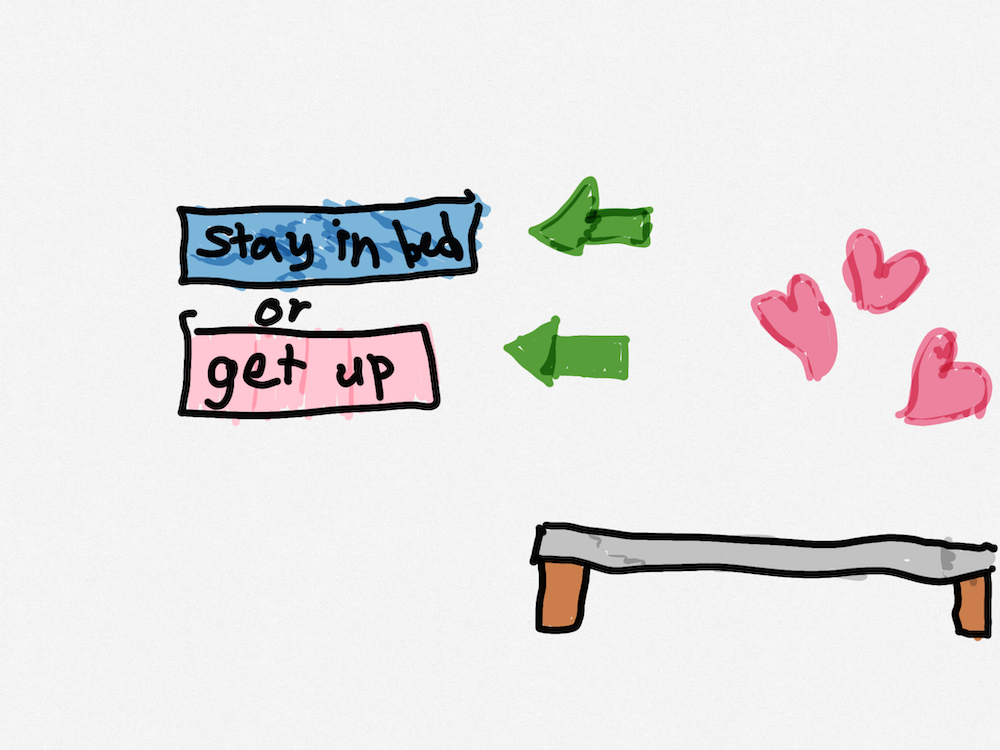
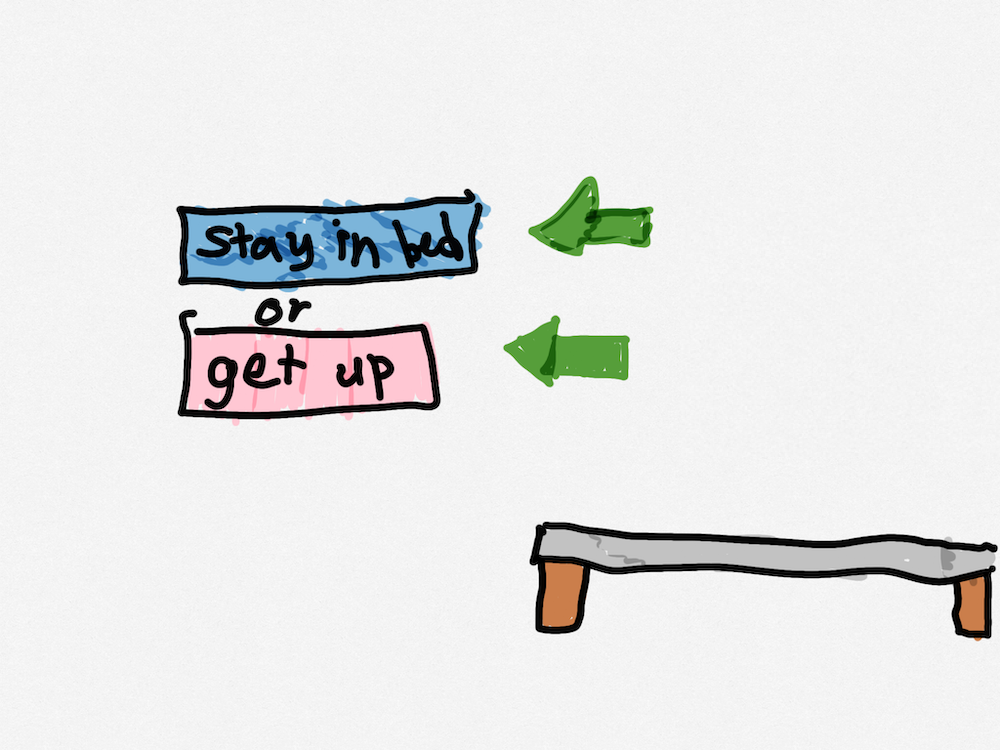
refactored physics

Changed region(s): [[0.744, 0.3067, 0.93, 0.5213], [0.899, 0.4293, 0.992, 0.5827]]

diff --git a/js/chooseAPlayer.js b/js/chooseAPlayer.js
@@ -1,5 +1,7 @@
 import {InputHandler} from "./input.js";
 import {WakeUp} from "./wakeUp.js";
+import {Gravity} from "./gravity.js";
+
 export class ChooseAPlayer {
 
   character_width = 250
@@ -50,11 +52,7 @@ class player {
     this.x = x;
     this.y = y;
 
-    this.v0 = 20;
-    this.g = -3;
-    this.tick = 0.3
-    this.d = 0;
-    this.time = Math.random() * -1
+    this.gravity = new Gravity(Math.random() * -1, 20, 0.3)
 
     this.input = new InputHandler(this.parent.game.canvas, pos => {
       if (!this.parent.isVisible) {
@@ -62,30 +60,21 @@ class player {
       }
 
       if (pos.x > this.x && pos.x < this.x + this.image.width
-      && pos.y > this.y - this.d && pos.y < this.y - this.d + this.image.height) {
+      && pos.y > this.y - this.gravity.d && pos.y < this.y - this.gravity.d + this.image.height) {
         this.onMouseDownInside()
       }
     })
   }
 
   update() {
-    if (this.time < 0) {
-      this.time = this.time + this.tick/3
-      return
-    }
-
-    if (this.d <= 0) {
-      this.time = this.tick
-    }
-    this.d = this.v0 * this.time + this.g /2 * this.time ** 2
-    this.time = this.time + this.tick
+    this.gravity.updateDisplacement()
   }
 
   draw(context) {
-    context.drawImage(this.image, this.x, this.y - this.d)
+    context.drawImage(this.image, this.x, this.y - this.gravity.d)
   }
 
   onMouseDownInside() {
-    this.parent.game.push(new WakeUp(this.parent.game))
+    this.parent.game.push(new WakeUp(this.parent.game, this.character))
   }
 }

diff --git a/js/wakeUp.js b/js/wakeUp.js
@@ -1,26 +1,55 @@
 import {InputHandler} from "./input.js";
 import {Button} from "./button.js";
+import {Gravity} from "./gravity.js";
 
 export class WakeUp {
 
-  constructor(game) {
+  constructor(game, character) {
     this.game = game
+    this.character = character
 
     this.isVisible = false
     this.image = document.getElementById("the-sleeping-area")
 
-    this.input = new InputHandler(this.game.canvas, pos => {
-      console.log(pos)
-    })
+    this.hearts = []
+    this.hearts.push(new Heart(this, "left_heart", 720, 280),
+      new Heart(this, "middle_heart", 840, 230),
+      new Heart(this, "right_heart", 891, 321))
   }
   update() {
+    this.hearts.forEach((h, i) => {
+      h.update()
+    })
   }
 
   draw(context) {
     context.drawImage(this.image, 0, 0)
+    this.hearts.forEach((h, i) => {
+      h.draw(context)
+    })
   }
 
   setIsVisible(isVisible) {
     this.isVisible = isVisible
+  }
+}
+
+class Heart {
+  constructor(parent, id, x, y) {
+    this.parent = parent
+    this.id = id
+    this.image = document.getElementById(id)
+    this.x = x;
+    this.y = y;
+
+    this.gravity = new Gravity(0, 20, 0.1)
+  }
+
+  update() {
+    this.gravity.updateDisplacement()
+  }
+
+  draw(context) {
+    context.drawImage(this.image, this.x, this.y - this.gravity.d)
   }
 }

diff --git a/js/gravity.js b/js/gravity.js
@@ -1,0 +1,27 @@
+export class Gravity {
+
+  constructor(t0, v0, tick) {
+    this.v0 = v0;
+    this.g = -3;
+    this.tick = tick
+    this.d = 0;
+    this.time = t0
+  }
+
+  updateDisplacement() {
+    if (this.time < 0) { //delay the start of calculation
+      this.time = this.time + this.tick/3
+      return
+    }
+
+    if (this.d <= 0) {
+      this.time = this.tick
+    }
+    this.d = this.v0 * this.time + this.g /2 * this.time ** 2
+    this.time = this.time + this.tick
+  }
+}
+
+export class Pendulum {
+
+}

diff --git a/index.html b/index.html
@@ -30,6 +30,9 @@
   <img id="elephant" class="asset" src="assets/elephant.png">
   <img id="zebra" class="asset" src="assets/zebra.png">
   <img id="the-sleeping-area" class="asset" src="assets/the-sleeping-area.png">
+  <img id="left_heart" class="asset" src="assets/left_heart.png">
+  <img id="middle_heart" class="asset" src="assets/middle_heart.png">
+  <img id="right_heart" class="asset" src="assets/right_heart.png">
 
   <script type="module" src="js/app.js"></script>
 

diff --git a/js/app.js b/js/app.js
@@ -14,6 +14,10 @@ window.addEventListener('load', function (){
       this.width = this.canvas.width;
       this.height = this.canvas.height;
       this.views = []
+
+      this.inputDebugger = new InputHandler(this.canvas, pos => {
+        console.log(pos)
+      })
     }
 
     update() {
